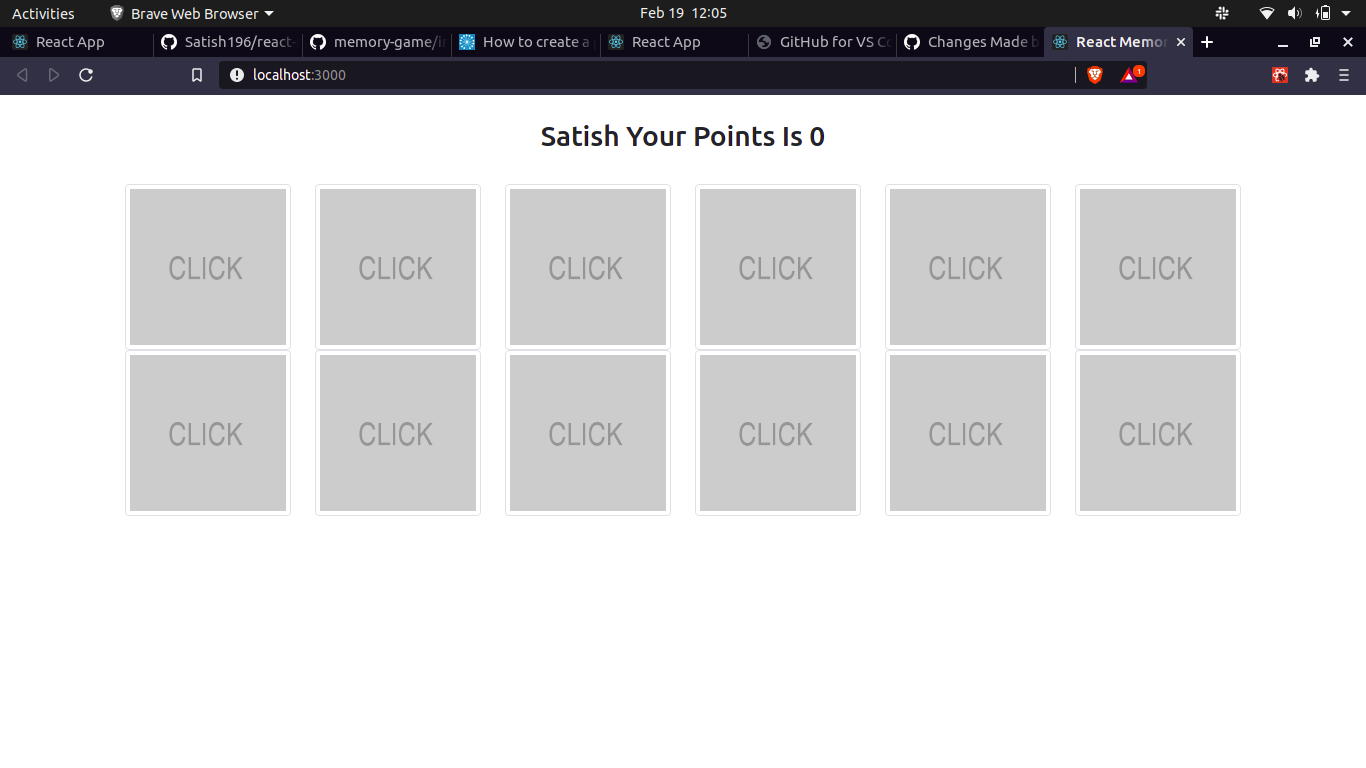
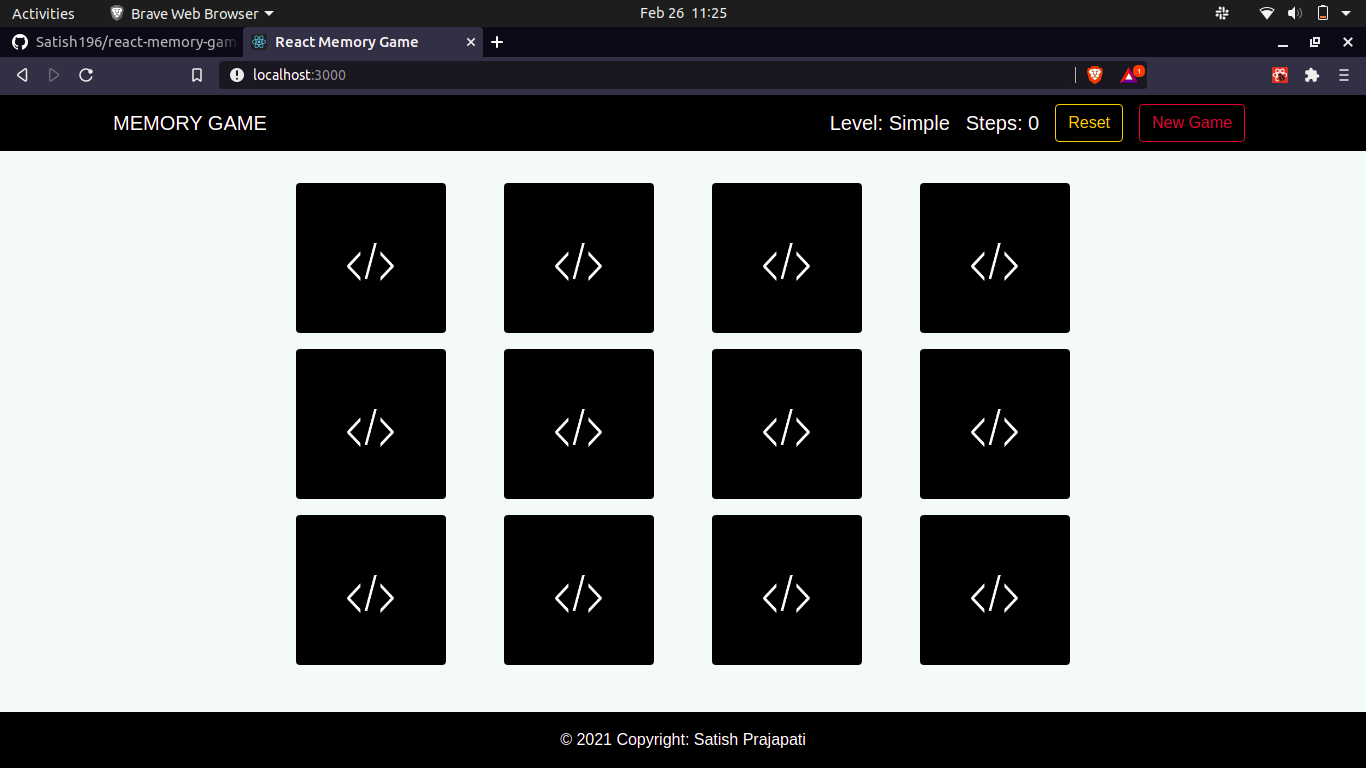
Final V2

diff --git a/src/components/Images.js b/src/components/Images.js
@@ -201,17 +201,11 @@ function Images() {
   }
   
   const shuffle = (levelList) => {
-    if(gameLevel === 'Simple') {
-        const shuffledImages = levelList.sort(() => Math.random() - 0.5)
-        const shuffledImages2 = shuffledImages.sort(() => Math.random() - 0.5)
-        return shuffledImages2
-    } else {
-        const shuffledImages = levelList.sort(() => Math.random() - 0.5)
-        return shuffledImages
-    }
+    const shuffledImages = levelList.sort(() => Math.random() - 0.5)
+    return shuffledImages
   }
 
-  const selectImg = (limit) => {
+  const selectLevelImages = (limit) => {
     const levelList = imgs.slice(0,limit)
     levelList.push(...levelList)
     const randomImages = shuffle(levelList)
@@ -224,13 +218,13 @@ function Images() {
     gameLevel = levelDifficulty
     switch (levelDifficulty) {
         case 'Simple':
-            selectImg(level.Simple)
+            selectLevelImages(level.Simple)
           break;
         case 'Medium':
-            selectImg(level.Medium)
+            selectLevelImages(level.Medium)
           break;
         case 'Difficult':
-            selectImg(level.Difficult)
+            selectLevelImages(level.Difficult)
           break;
       }
   }
@@ -263,7 +257,6 @@ function Images() {
       setPlayerName(userName)
       generateLevel(selectedLevel)
   }
-
     return (
         <>
             <nav className="navbar navbar-expand navbar-dark bg-dark">
@@ -288,9 +281,9 @@ function Images() {
                 <div className='text-center py-3'>
                     {hideStart && playerName  && <h3>{playerName} Your game starts in {timer}</h3>}
                     {!playerName && <form onSubmit={saveUserName}>
-                    <div className="row form-group">
-                        <label className="col-12 mx-auto h3" for="exampleInputEmail1">Your Name</label>
-                        <div className="col-12">
+                    <div className="row form-group ">
+                        <label className="col-12 mx-auto h1 pt-5" for="exampleInputEmail1">Welcome To Memory Game</label>
+                        <div className="col-12 pt-5">
                             <div className="col-4 mx-auto">
                                 <input type="text" name='user' className="form-control" placeholder="Enter Your Name" required/>
                             </div>
@@ -306,26 +299,26 @@ function Images() {
                             </div>
                         </div>
                         <div className="mx-auto pt-2">
-                            <input type="submit" className='btn btn-primary' value="Start Game"/>
+                            <input type="submit" className='btn btn-outline-dark' value="Start Game"/>
                         </div>
                     </div>
                     </form>}
                 </div>
-                {!correctSteps && <div class="card w-50 mx-auto text-white">
-                    <h5 class="card-header bg-dark">{playerName} You Game Finished!</h5>
-                    <div class="card-body card-text">
-                        <h5 class="card-title">Your Score Card</h5>
-                        <p class="card-text">Game Level : {gameLevel}</p>
-                        <p class="card-text">Total Steps : {steps}</p>
-                        <p class="card-text">Accuracy : {Math.round((level[gameLevel] / steps) * 100)}%</p>
+                {!correctSteps && <div className="card w-50 mx-auto text-white">
+                    <h5 className="card-header bg-dark">{playerName} You Game Finished!</h5>
+                    <div className="card-body card-text">
+                        <h5 className="card-title">Your Score Card</h5>
+                        <p className="card-text">Game Level : {gameLevel}</p>
+                        <p className="card-text">Total Steps : {steps}</p>
+                        <p className="card-text">Accuracy : {Math.round((level[gameLevel] / steps) * 100)}%</p>
                         <input type="button" className="btn btn-outline-warning mx-2" onClick={gameReset} value='Reset' />
                         <button className="btn btn-outline-danger mx-2" onClick={() => window.location.reload(false)} >New Game</button>
                     </div>
                 </div>}
-                {playerName && correctSteps > 0 && <div className="row">
+                {playerName && correctSteps > 0 && <div className={gameLevel === 'Simple' || gameLevel === 'Difficult' ? "row text-center w-75 mx-auto" : "row text-center"}>
                     {finalGame.current.map((img, index) => (
-                        <div className="col-2 pb-3"  >
-                            <img className={img.completed ? 'img-thumbnail border-0 completed' : 'img-thumbnail border-0 uncompleted'} onClick={() => flipOnClick(index, img.name, img.completed, img.flipped)} key={index} src={img.flipped ? img.loc : defaultImg} alt=""/>
+                        <div className={gameLevel === 'Simple' ? "col-3 pb-3" : "col-2 pb-3"}  >
+                            <img className={img.completed ? 'img-thumbnail border-0 completed' : 'img-thumbnail border-0 uncompleted'} style={{width: '150px'}}  onClick={() => flipOnClick(index, img.name, img.completed, img.flipped)} key={index} src={img.flipped ? img.loc : defaultImg} alt=""/>
                         </div>
                     ))}
                 </div>}

diff --git a/README.md b/README.md
@@ -8,6 +8,12 @@
 
 ![](screenshot/4.png)
 
+![](screenshot/5.png)
+
+![](screenshot/6.png)
+
+![](screenshot/7.png)
+
 # Getting Started with Create React App
 
 This project was bootstrapped with [Create React App](https://github.com/facebook/create-react-app).
